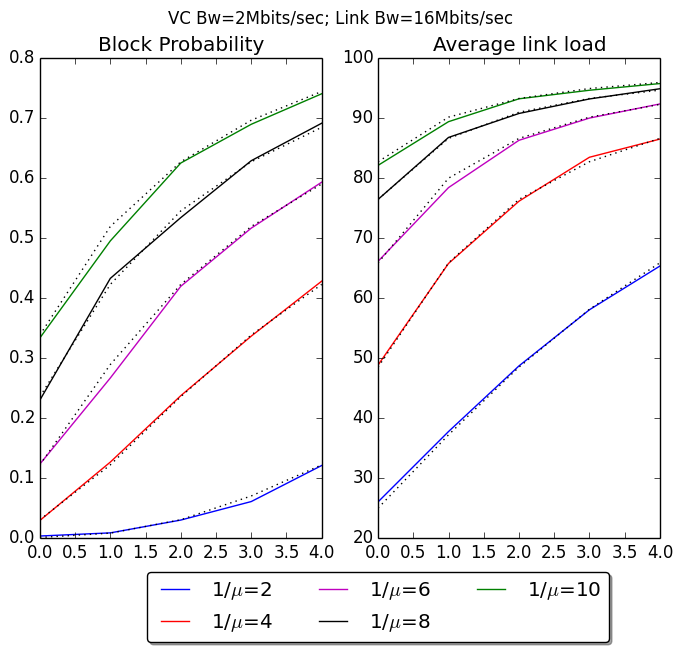
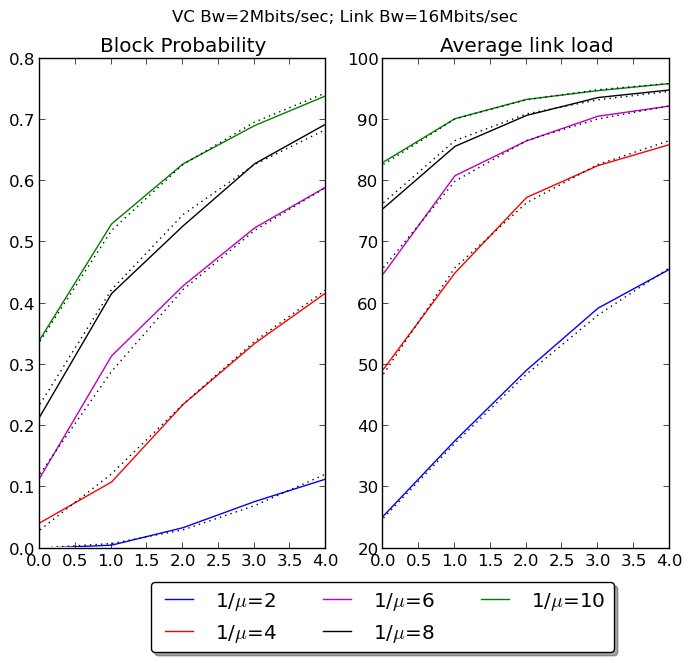
ex3 done, ex 6 e 7, com duvidas nos calculos de 7

diff --git a/Assigment 3 - Network Simulation/codeFiles/VCSim2.py b/Assigment 3 - Network Simulation/codeFiles/VCSim2.py
@@ -1,0 +1,177 @@
+import simpy
+import numpy as np
+from scipy.misc import factorial
+import sys
+import matplotlib.pyplot as plt
+
+
+class NodeStats:
+    """
+        Node stats recording
+        bw: Link bandwidth
+    """
+
+    def __init__(self, bw, reserved, numberServices):
+        self.vcs_total = np.zeros(2)
+        self.vcs_acc = np.zeros(2)
+        self.vcs_blk = np.zeros(2)
+        self.bw = bw
+        self.reserved = np.array(reserved)
+        self.bwres = np.sum(reserved)
+        self.available_bw = bw
+        self.lastloadchange = 0
+        self.loadint = 0
+
+
+def wait_for_enter():
+    if sys.version_info[0] == 2:
+        raw_input("Press ENTER to continue.")
+    else:
+        input("Press ENTER to continue.")
+
+
+def vc_generator(env, id, av_rate, av_duration, b, stats):
+    """
+    VC generator
+    env: SimPy environment
+    av_rate: Average VC requests rate
+    av_duration: Average VC duration
+    b: VC required bandwidth
+    stats: Node stats recording (NodeStats class)
+    """
+    while True:
+        yield env.timeout(np.random.exponential(1.0 / av_rate))
+        # yield, passa o controlo para o env, e fica a espera. do tempo atual, passado um timeout, ira rechamar
+        # o processo e continuara este processo
+        stats.vcs_total[id - 1] += 1
+        if stats.available_bw >= b + stats.bwres - stats.reserved[id - 1]:
+            stats.vcs_acc[id - 1] += 1
+            stats.loadint += (1.0 / stats.bw) * (stats.bw - stats.available_bw) * (
+                env.now - stats.lastloadchange)  # area
+            stats.lastloadchange = env.now  # ultima mudanca de carga
+            stats.available_bw -= b  # subtrair os recursos que estao disponiveis agora
+            # print("time %f: VC %d started" % (env.now, stats.vcs_total))  # print a dizer que chegou
+            env.process(
+                vc(env, stats.vcs_total, av_duration, b, stats))  # processo que ira dizer quando a chamada ira terminar
+        else:
+            stats.vcs_blk[id - 1] += 1
+            # print("time %f: VC %d blocked" % (env.now, stats.vcs_total))
+
+
+def vc(env, id, av_duration, b, stats):
+    """
+    VC object
+    env: SimPy environment
+    id: VC identifier
+    av_duration: Average VC duration
+    b: VC required bandwidth
+    stats: Global stats recording (NodeStats class)
+    """
+    yield env.timeout(np.random.exponential(av_duration))  # calcula a duracao da chamada
+    stats.loadint += (1.0 / stats.bw) * (stats.bw - stats.available_bw) * (
+        env.now - stats.lastloadchange)  # a mudanca da chamada
+    stats.lastloadchange = env.now  # mudanca de carga
+    stats.available_bw += b  # libertar memoria dos recursos que estavam alocados a chamada
+    # print("time %f: VC %d ended" % (env.now, id))
+
+
+N = 2
+lambdastandard = [1, 2, 3, 4, 5]  # taxa media de chegada dos pedidos
+lambdaspecial = [1, 1.5, 2, 2.5, 3]  # taxa media de chegada dos pedidos
+
+invmus = [2, 4, 6, 8, 10]  # duracao media das chamadas
+Bs = [16, 24, 32]  # capacidade de recursos que o no tem
+R = [0, 4, 8, 16]
+bstandard = 2  # recursos necessarios por cada chamada
+bspecial = 4  # recursos necessarios por cada chamada
+
+simtime = 3000
+
+res = np.zeros((len(lambdastandard), len(invmus), len(Bs), 4))
+
+'''
+stats = NodeStats(32, R, N)
+env = simpy.Environment()
+env.process(vc_generator(env, 1, lambdastandard[1], invmus[1], bstandard, stats))
+env.process(vc_generator(env, 2, lambdaspecial[0], invmus[1], bspecial, stats))
+env.run(simtime)
+
+for id in range(1, 3):
+    print("Simulated Block Probability %d=%f" % (id, 1.0 * stats.vcs_blk[id-1] / stats.vcs_total[id-1]))
+
+print("Simulated Average Link Load=%.2f%%" % (100.0 * stats.loadint / simtime))
+'''
+
+for l, lambstan in enumerate(lambdastandard):
+    for a, lambspe in enumerate(lambdaspecial):
+
+        for j, invmu in enumerate(invmus):
+            for k, B in enumerate(Bs):
+                C1 = B / bstandard
+                C2 = B / bspecial
+
+                stats = NodeStats(B, R, N)
+                env = simpy.Environment()
+                env.process(vc_generator(env, 1, lambstan, invmu, bstandard, stats))
+                env.process(vc_generator(env, 2, lambspe, invmu, bspecial, stats))
+                # env.process(vc_generator(env, lamb, invmu, b, stats))
+                env.run(simtime)
+
+                print("---- lambdaStandard: %d, lambdaSpecial: %.1f, invmu: %d, B: %d, bStandard: %d, bSpecial: %d, simtime: %d ----" % (
+                lambstan, lambspe, invmu, B, bstandard, bspecial, simtime))
+
+                for id in range(1, N + 1):
+                    print(
+                    "Simulated Block Probability %d=%f" % (id, 1.0 * stats.vcs_blk[id - 1] / stats.vcs_total[id - 1]))
+
+                print("Simulated Average Link Load=%.2f%%" % (100.0 * stats.loadint / simtime))
+
+                rho1 = lambstan * invmu
+                i1 = np.arange(0, C1 + 1)
+                blkp1 = (np.power(1.0 * rho1, C1) / factorial(C1)) / np.sum(np.power(1.0 * rho1, i1) / factorial(i1))
+                print("Theoretical Block Probability %d=%f" % (1, blkp1))
+
+                rho2 = lambspe * invmu
+                i2 = np.arange(0, C2 + 1)
+                blkp2 = (np.power(1.0 * rho2, C2) / factorial(C2)) / np.sum(np.power(1.0 * rho2, i2) / factorial(i2))
+                print("Theoretical Block Probability %d=%f" % (2, blkp2))
+
+                i3 = np.arange(1, C1 + 1)
+                linkload1 = (1.0 / C1) * np.sum(np.power(1.0 * rho1, i3) / factorial(i3 - 1)) / np.sum(
+                    np.power(1.0 * rho1, i1) / factorial(i1))
+
+                i4 = np.arange(1, C2 + 1)
+                linkload2 = (1.0 / C2) * np.sum(np.power(1.0 * rho2, i4) / factorial(i4 - 1)) / np.sum(
+                    np.power(1.0 * rho2, i2) / factorial(i2))
+
+                print("Theoretical Average Link Load %d=%.2f%%" % (1, 100 * linkload1))
+                print("Theoretical Average Link Load %d=%.2f%%" % (2, 100 * linkload2))
+
+
+'''
+# now plot
+
+plt.ion()
+
+for k, B in enumerate(Bs):
+    plt.figure(k+1)
+    plt.suptitle("VC Bw=2Mbits/sec; Link Bw="+str(B)+"Mbits/sec")
+
+    for j, invmu in enumerate(invmus):
+        plt.subplot(1, 2, 1)
+        plt.plot(resStandard[:, j, k, 0], label="1/$\mu$=" + str(invmu))
+        plt.plot(resStandard[:, j, k, 2], ls="dotted", c="k")
+        plt.title("Block Probability")
+
+        plt.subplot(1, 2, 2)
+        plt.plot(resStandard[:, j, k, 1], label="1/$\mu$=" + str(invmu))
+        plt.plot(resStandard[:, j, k, 3], ls="dotted", c="k")
+        plt.title("Average link load")
+
+    plt.legend(loc='upper center', bbox_to_anchor=(0, -0.05),
+               fancybox=True, shadow=True, ncol=3)
+
+    plt.savefig('graph'+str(k+1)+'.png', bbox_inches='tight')
+
+'''
+wait_for_enter()

diff --git a/Assigment 3 - Network Simulation/codeFiles/PktSim2.py b/Assigment 3 - Network Simulation/codeFiles/PktSim2.py
@@ -173,13 +173,13 @@ env = simpy.Environment()
 
 lamb = 600
 K = 128
-B = 2e6
+B = 10e9
 tmp = 782  # 0.5*1500+0.5*64 bytes em media
 
 rx = pkt_Receiver(env, 'B')
 tx = pkt_Sender(env, 'A', lamb, 'B')
-node1 = Node(env, 'N1', np.inf)
-link = Link(env, 'L', B, K)
+node1 = Node(env, 'N1', 100, K)
+link = Link(env, 'L', B, np.inf)
 
 tx.out = node1
 node1.add_conn(link, 'B')
@@ -189,8 +189,8 @@ print(node1.out)
 
 simtime = 30
 env.run(simtime)
-
-print('Loss probability: %.2f%%' % (100.0 * link.lost_pkts / tx.packets_sent))
+print(node1.queue.items)
+print('Loss probability: %.2f%%' % (100.0 * node1.lost_pkts / tx.packets_sent))
 print('Average delay: %f sec' % (1.0 * rx.overalldelay / rx.packets_recv))
 print('Transmitted bandwidth: %.1f Bytes/sec' % (1.0 * rx.overallbytes / simtime))
 

diff --git a/Assigment 3 - Network Simulation/codeFiles/VCSim1.py b/Assigment 3 - Network Simulation/codeFiles/VCSim1.py
@@ -133,3 +133,6 @@ for k, B in enumerate(Bs):
                fancybox=True, shadow=True, ncol=3)
 
     plt.savefig('graph'+str(k+1)+'.png', bbox_inches='tight')
+
+
+wait_for_enter()
